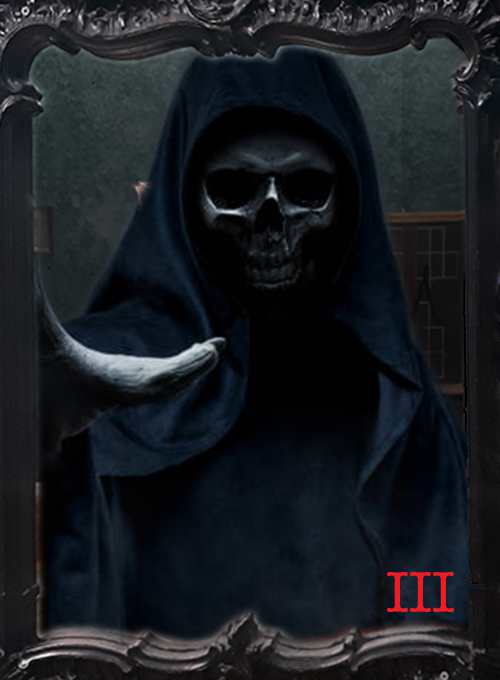
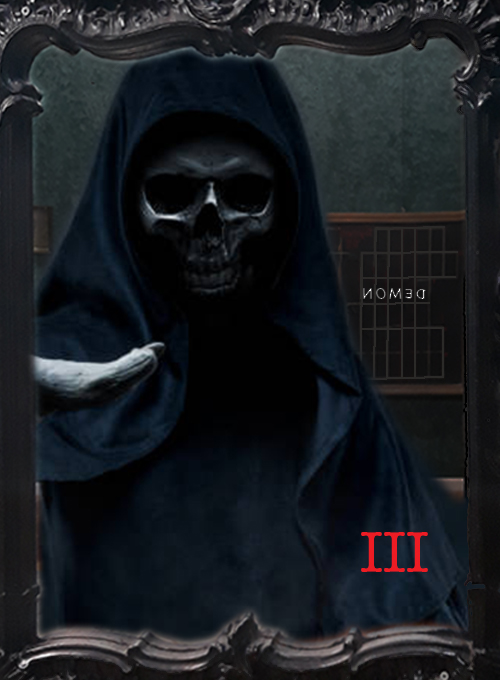
removed heading changed image

diff --git a/WipeAwayOccult/index.html b/WipeAwayOccult/index.html
@@ -27,7 +27,7 @@ div.red {
 
 <body style="background-color: black;">
     <div class="blue" style="background-image: url('images/demon-mirror.jpg'); position: absolute; width: 500px; height: 680px; display: flex; justify-content: center; align-items: center;">
-        <h1>DEMON</h1>
+        
     </div>
     <div class="red" style="position: absolute; width: 520px; height: 500px;" id="canvas"></div>
 </body>
